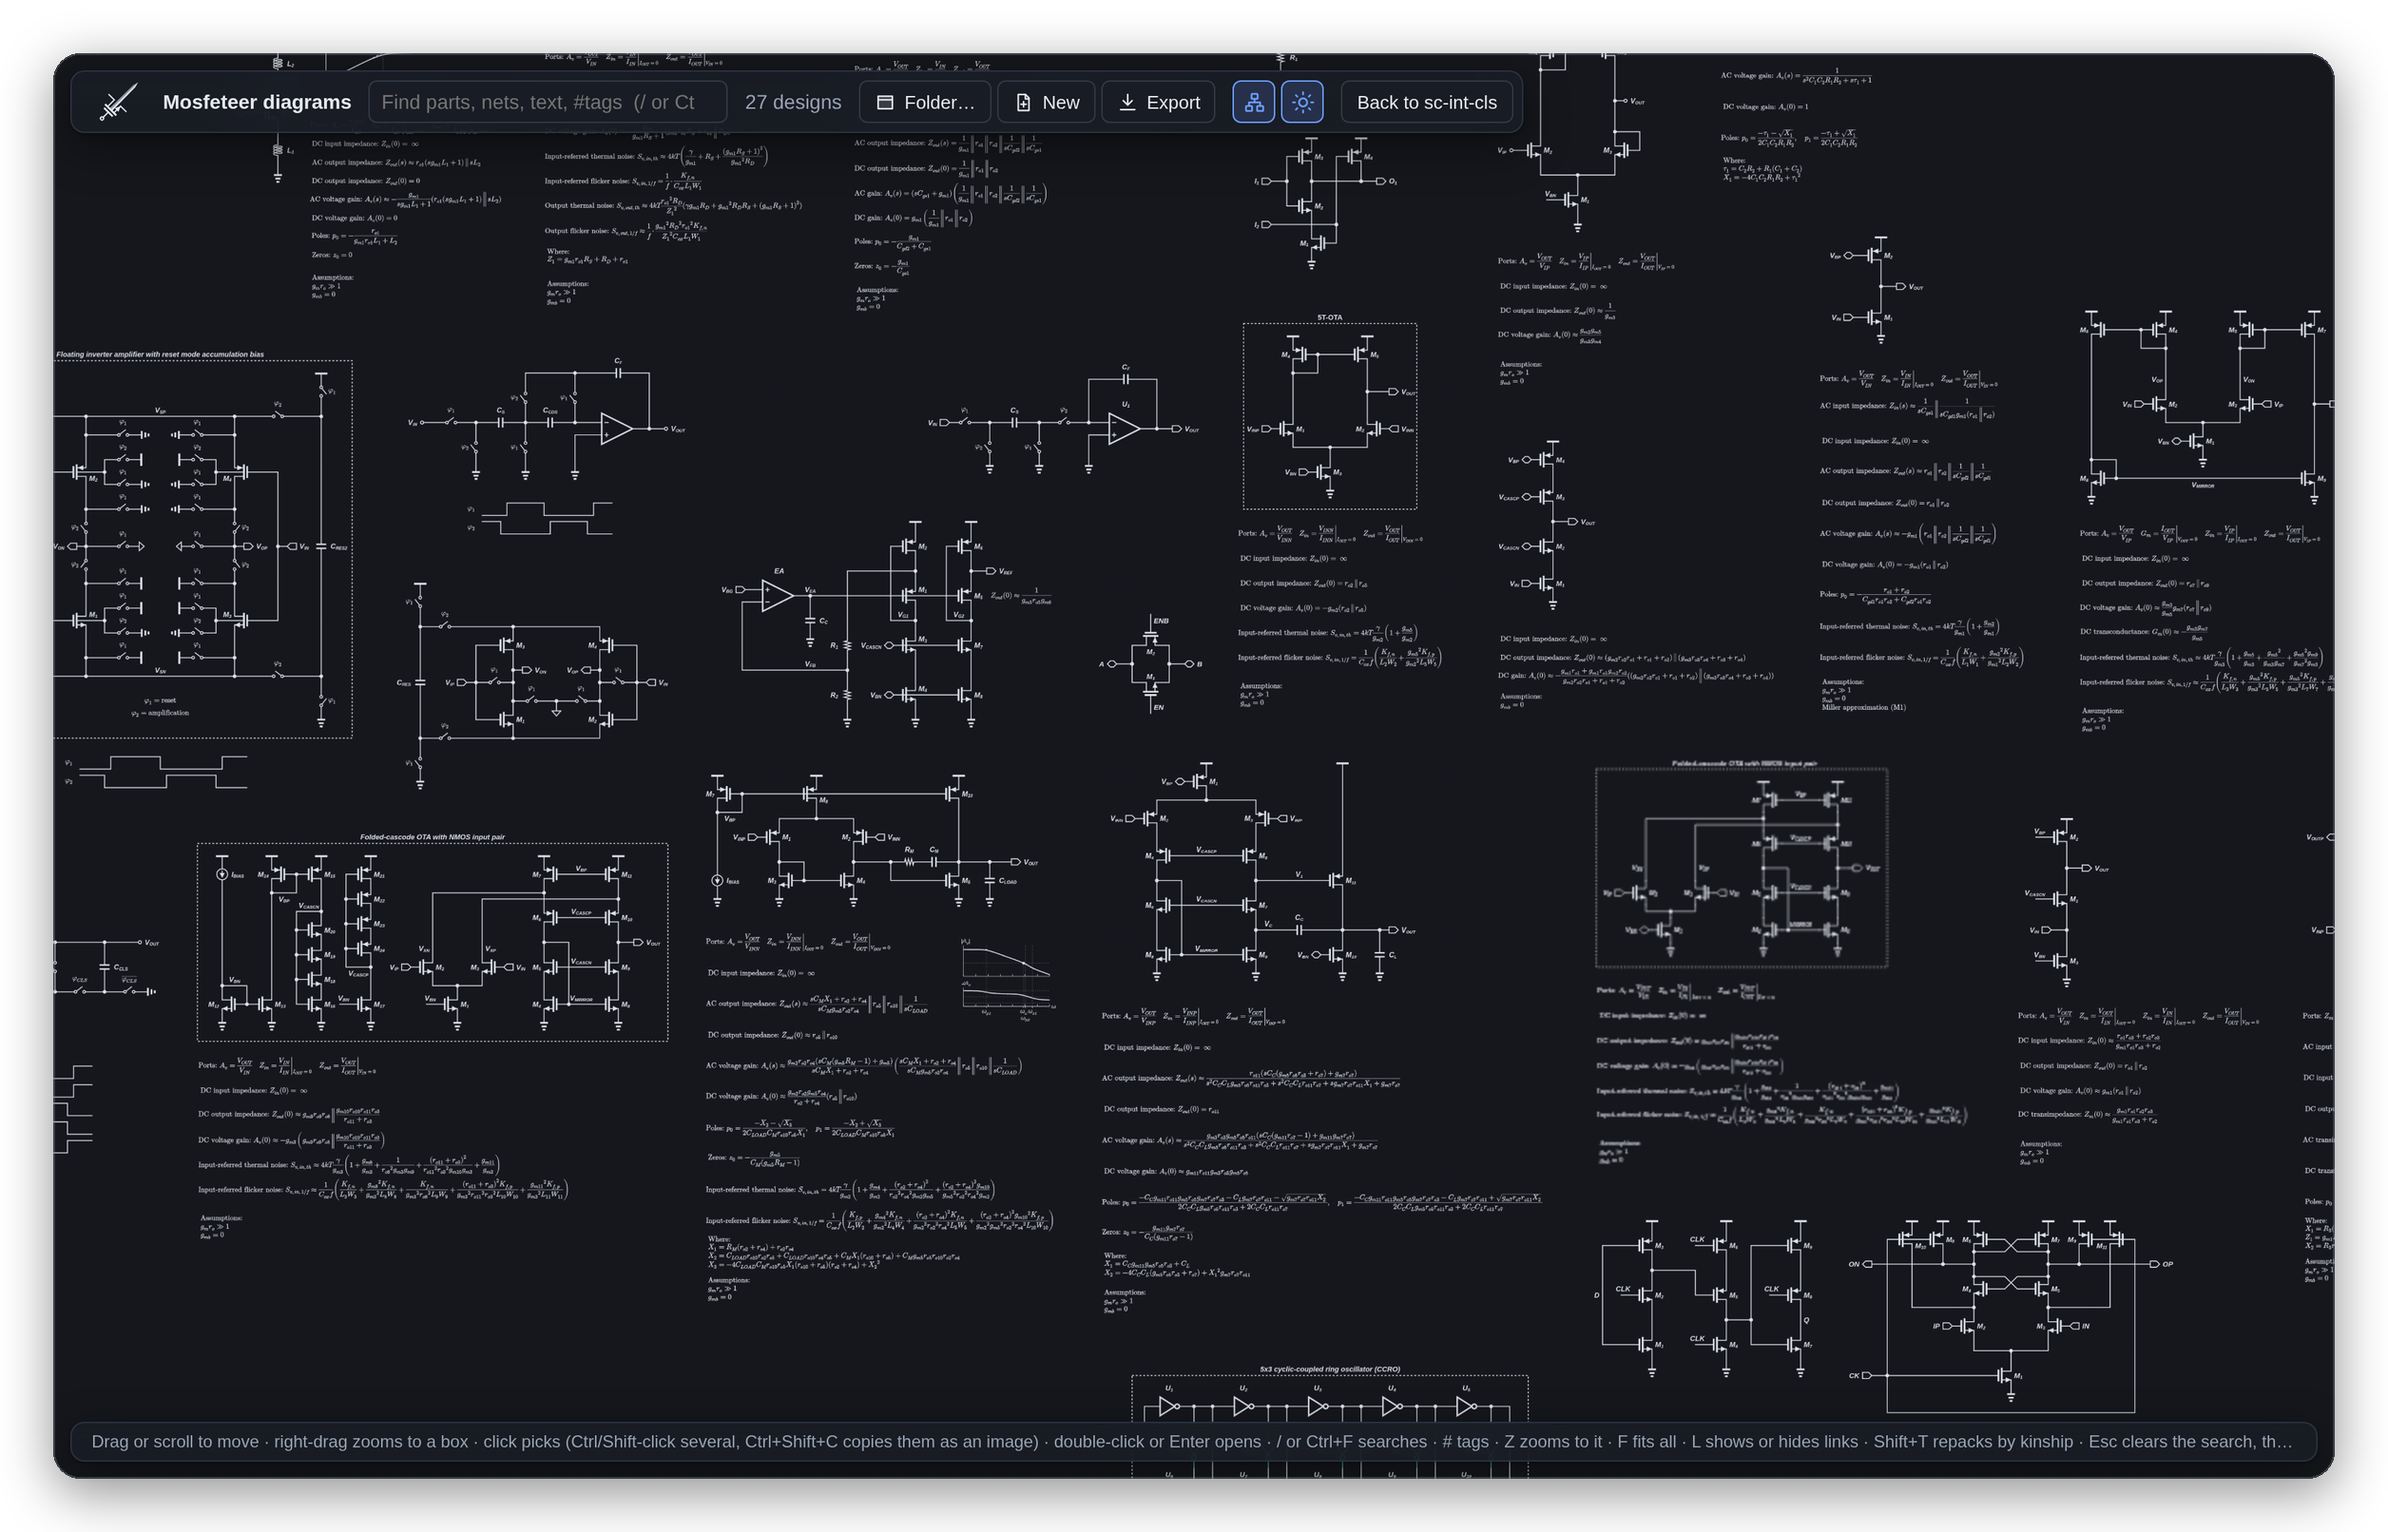
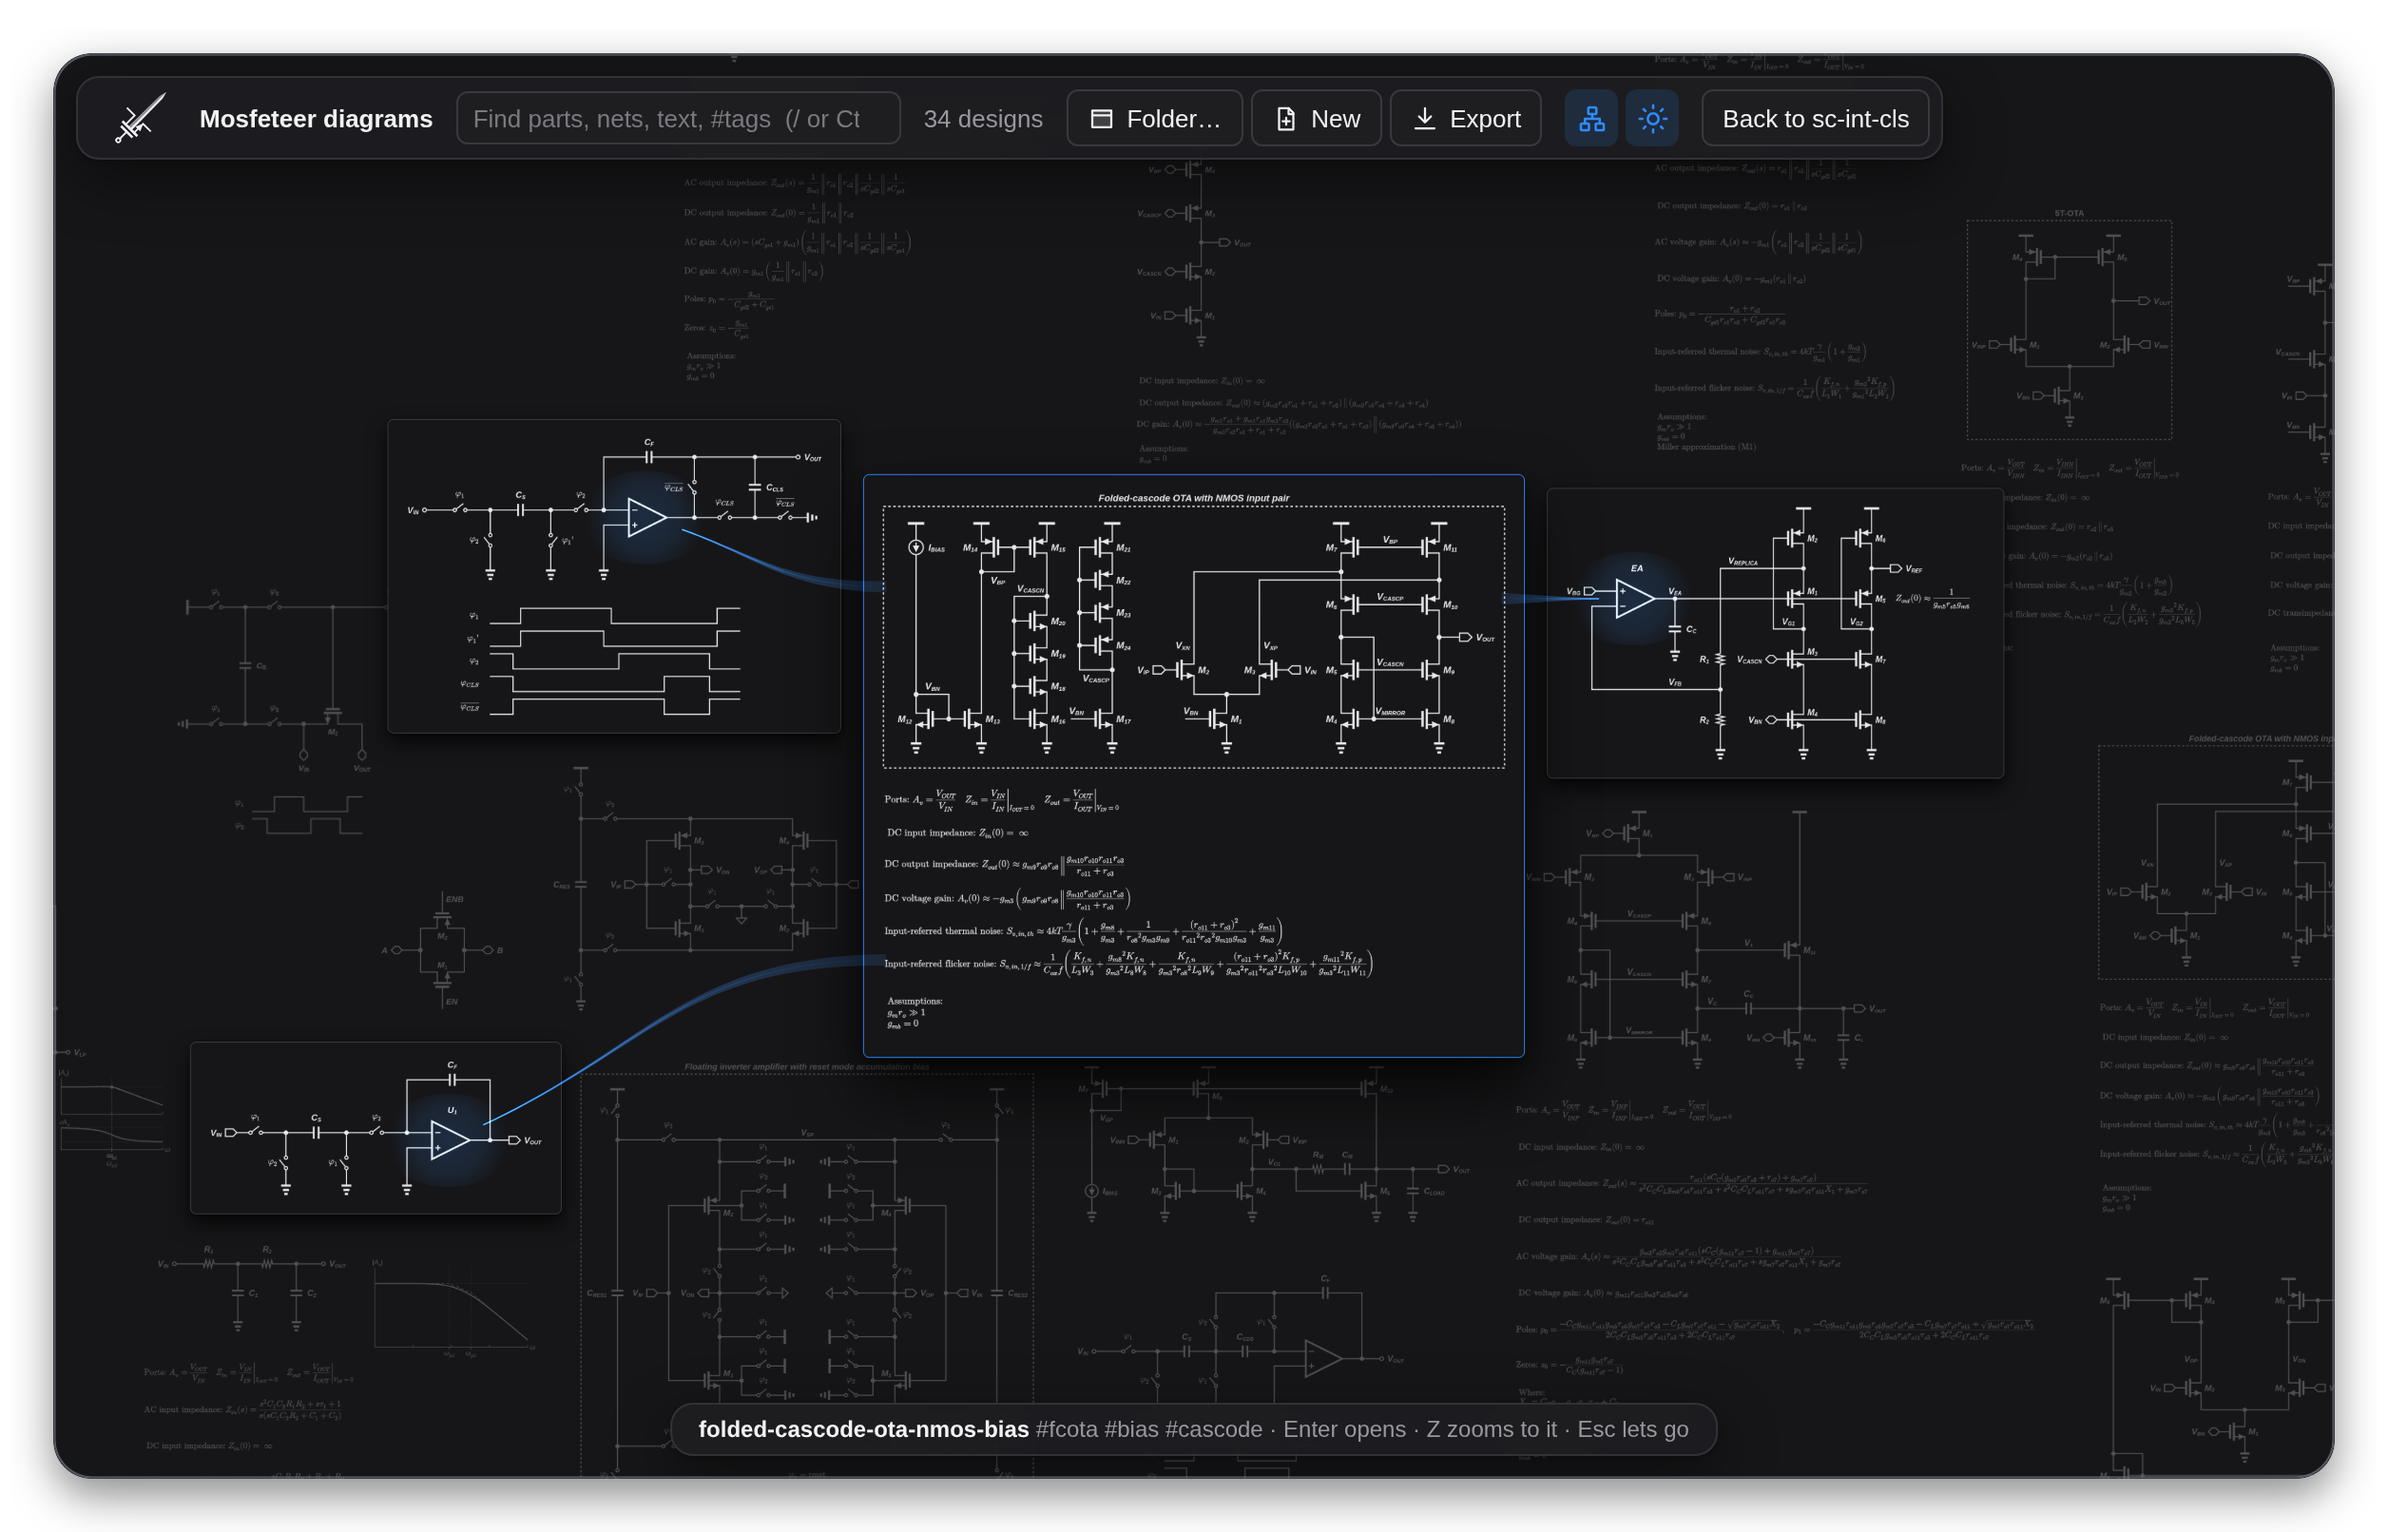
README: the analysis tools, the optimizer, and a new Atlas picture
A section on the analysis window's two modes, the Plots window, and the
optimizer; the calculator, reference windows, and design check beside
them; their keys; and links to the analysis docs. The Atlas picture is
taken afresh with a design picked, so its links show as beams. The
browser harness takes the workspace folder's name (the Atlas shows it).

diff --git a/test/browser/harness.js b/test/browser/harness.js
@@ -42,10 +42,11 @@ function freePort() {
   });
 }
 
-/** Start a server on `docs` ({ name: state }) and a browser on the editor. */
-export async function start({ docs = {}, width = 1400, height = 900 } = {}) {
+/** Start a server on `docs` ({ name: state }) and a browser on the editor;
+ *  `folder` names the workspace folder (its name shows in the Atlas). */
+export async function start({ docs = {}, width = 1400, height = 900, folder = 'ws' } = {}) {
   const root = await mkdtemp(join(tmpdir(), 'mosfeteer-browser-'));
-  const workspace = join(root, 'ws');
+  const workspace = join(root, folder);
   await mkdir(workspace, { recursive: true });
   const home = join(root, 'home');
   await mkdir(join(home, 'Pictures'), { recursive: true });

diff --git a/README.md b/README.md
@@ -10,7 +10,7 @@
 <p align="center">
   <b>Analog circuit design, from sketch to equation.</b><br>
   Draw textbook-quality schematics, walk through them step by step,<br>
-  and derive their transfer functions, all from the keyboard.
+  and derive their transfer functions.
 </p>
 
 <p align="center">
@@ -22,6 +22,7 @@
 <p align="center">
   <a href="#quick-start">Quick start</a> ·
   <a href="#what-it-does">What it does</a> ·
+  <a href="#analysis">Analysis</a> ·
   <a href="#keys-worth-knowing">Keys</a> ·
   <a href="#more">More</a>
 </p>
@@ -39,14 +40,31 @@
 | **Draw fast** | Press `i` and type to place a part. Wires route themselves and stay tidy as parts move. |
 | **Explain in steps** | Beats show, dim, and hide parts and flip switches over one drawing, driven by a timing diagram. |
 | **Derive the math** | Symbolic Z<sub>in</sub>, Z<sub>out</sub>, A<sub>v</sub>, poles, zeros, and noise, each term traced back to its devices. |
+| **Analyze block diagrams** | Draw a loop of gains, sums, H(s) and H(z) blocks, samplers, and quantizers, and get its exact transfer functions, plots, and a time-domain simulation. |
+| **Tune it** | An optimizer searches the free coefficients for the best in-band noise, peaking, or pole Q that keeps your limits and signal swings. |
 | **Work across designs** | Parts link to the circuits they stand for. Peek into them, dive in, or keep another design open in a reference window. |
+| **Keep tools at hand** | A calculator that speaks engineering units, reference windows with another design beside this one, a design check, and a command line for every action. |
 | **Share it** | SVG, PDF, and PNG export sized for papers, and a browser-only build that runs from a folder. |
 
 <p align="center">
-  <img src="docs/images/atlas.webp" alt="The Atlas: every design in a workspace laid out on one zoomable sheet, from single-transistor stages to OTAs, switched-capacitor circuits, and a ring oscillator.">
+  <img src="docs/images/atlas.webp" alt="The Atlas: a workspace's designs laid out on one dark sheet. The folded-cascode OTA is picked and lifted on a card; beams of light run to it from the op-amps of three designs that use it, which lift beside it while the rest dim.">
   <br>
-  <sub><b>The Atlas</b> lays out every design in your workspace on one sheet. Search inside them, follow their links, and open one with a click.</sub>
+  <sub><b>The Atlas</b> lays out every design in your workspace on one sheet. Pick one and the designs it links to lift beside it, joined by beams. Search inside them, and open one with a click.</sub>
 </p>
+
+## Analysis
+
+The analysis window (`Shift+S`) has two modes, picked by what is drawn.
+
+**Small-signal** analysis solves a transistor circuit exactly and shows the result the way a textbook would: Z<sub>in</sub>, Z<sub>out</sub>, the gain, its poles and zeros, and input-referred noise, each term traced back to the devices it comes from. Pick the input and output on the drawing; ambiguous picks get a diagnostic, never a guess.
+
+**Signal flow** works on block diagrams: gains, sum and multiply junctions, H(s) and H(z) blocks (MATLAB-style `tf(...)`, delays and DAC pulses included), samplers, and quantizers. Every source gets its exact transfer function to the output from one solve, so a delta-sigma modulator's STF and NTF come out together, with the common factors cancelled. Symbols such as `a_1` or `k` stay symbolic in the equations and get sliders for the plots.
+
+The **Plots** window (`Shift+W`) shows the result as tabs: magnitude and phase, the step response, a root locus, the loop gain with its margins, the signal swing of every net against the input amplitude (where the loop overloads), and a time-domain simulation of the nets you pick. A diagram with a quantizer also shows its simulated output spectrum. The graph, the swing, and the waveforms can be annotated onto the drawing.
+
+The **optimizer** searches the free coefficients for the best goal that keeps every limit. Goals and limits are specs on a transfer function over a band (in-band noise, peak, lowest point), pole specs (the highest Q, the largest radius), relations between coefficients (`c_1 >= c_2`), and a swing test that simulates the loop with a sine and keeps chosen nets under their limits. Lee's rule for a modulator is one line: the NTF's peak below 3.5 dB.
+
+Alongside: a **calculator** (`Shift+E`) that reads `1/(2pi*10k*1n)` and `20*log(ans)`, **reference windows** (`Shift+V`) that keep another design in view, and a **design check** (`x`) for unconnected pins, overlapping nets and labels, and other slips.
 
 ## Quick start
 
@@ -70,7 +88,8 @@ The editor opens in its own window and quits when you close it.
 | --- | --- |
 | `i` · `w` | insert a part · draw a wire |
 | `Shift+B` · `Shift+K` | beats · timing diagram |
-| `Shift+S` | small-signal analysis |
+| `Shift+S` · `Shift+W` | analysis · plots |
+| `Shift+E` · `x` | calculator · design check |
 | `Shift+V` | reference windows |
 | `Shift+Backspace` | the Atlas |
 | `?` | everything else: keys, tutorial, symbols, tips |
@@ -111,7 +130,8 @@ npm test
 
 - [`docs/model.md`](docs/model.md) · [`docs/editor.md`](docs/editor.md): the symbol specification and model rules, and editor behavior
 - [`docs/atlas.md`](docs/atlas.md) · [`docs/hierarchy.md`](docs/hierarchy.md) · [`docs/beats.md`](docs/beats.md): the Atlas, linked designs, and beats
-- [`docs/topological-small-signal.md`](docs/topological-small-signal.md): how the analysis works
+- [`docs/symbolic-analysis.md`](docs/symbolic-analysis.md) · [`docs/topological-small-signal.md`](docs/topological-small-signal.md): small-signal analysis and how its equations are formed
+- [`docs/signal-flow-analysis.md`](docs/signal-flow-analysis.md): signal-flow analysis, the swing simulation, and the optimizer
 
 </details>
 
